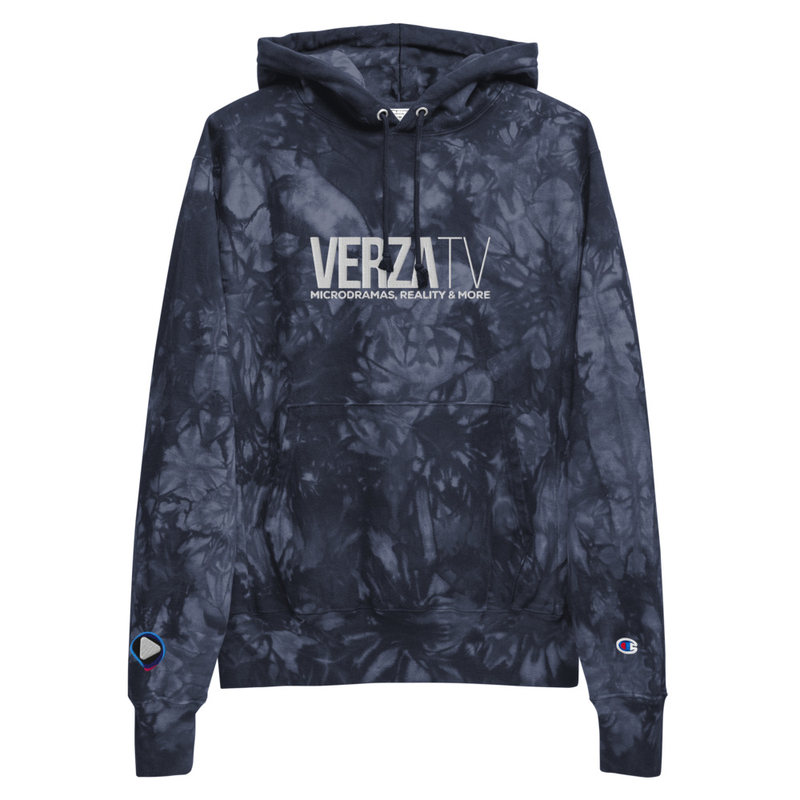
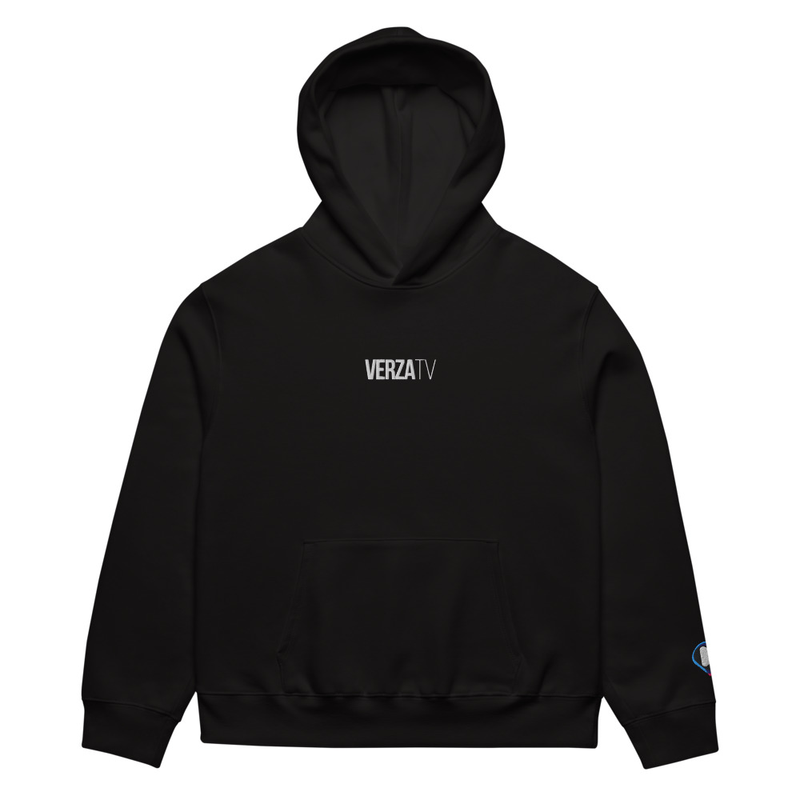
Expand shop to 10 products with real images
Added: Logo Hoodie, Columbia Fleece Jacket, Cap, T-Shirt, Socks images
All products now have real product photography

diff --git a/lib/products.ts b/lib/products.ts
@@ -36,7 +36,7 @@ export const products: Product[] = [
     price: 30.00,
     priceConfirmed: true,
     category: "Apparel",
-    imageUrl: "",
+    imageUrl: "/shop/embroidered-socks.png",
   },
   {
     id: "prod_4",
@@ -59,11 +59,47 @@ export const products: Product[] = [
   {
     id: "prod_6",
     slug: "verzatv-hoodie",
-    name: "VerzaTV Hoodie",
+    name: "VerzaTV Champion Hoodie",
     price: 95.00, // TODO: confirm price
     priceConfirmed: false,
     category: "Apparel",
     imageUrl: "/shop/verzatv-hoodie.png",
+  },
+  {
+    id: "prod_7",
+    slug: "verzatv-logo-hoodie",
+    name: "VerzaTV Logo Hoodie",
+    price: 85.00, // TODO: confirm price
+    priceConfirmed: false,
+    category: "Apparel",
+    imageUrl: "/shop/verzatv-logo-hoodie.png",
+  },
+  {
+    id: "prod_8",
+    slug: "verzatv-fleece-jacket",
+    name: "VerzaTV Columbia Fleece Jacket",
+    price: 110.00, // TODO: confirm price
+    priceConfirmed: false,
+    category: "Apparel",
+    imageUrl: "/shop/verzatv-fleece-jacket.png",
+  },
+  {
+    id: "prod_9",
+    slug: "verzatv-cap",
+    name: "VerzaTV Cap",
+    price: 35.00, // TODO: confirm price
+    priceConfirmed: false,
+    category: "Accessories",
+    imageUrl: "/shop/verzatv-cap.png",
+  },
+  {
+    id: "prod_10",
+    slug: "verzatv-tshirt",
+    name: "VerzaTV T-Shirt",
+    price: 45.00, // TODO: confirm price
+    priceConfirmed: false,
+    category: "Apparel",
+    imageUrl: "/shop/verzatv-tshirt.png",
   },
 ];
 